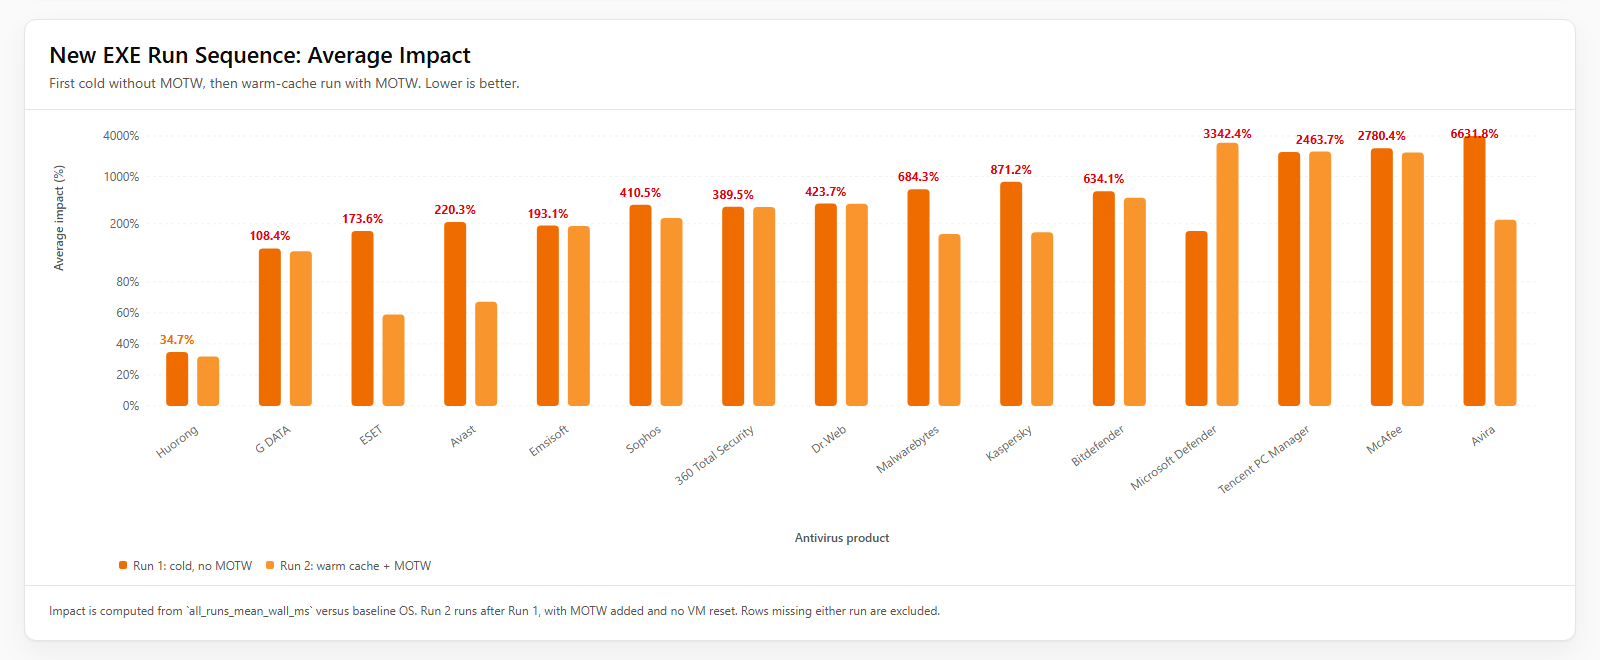
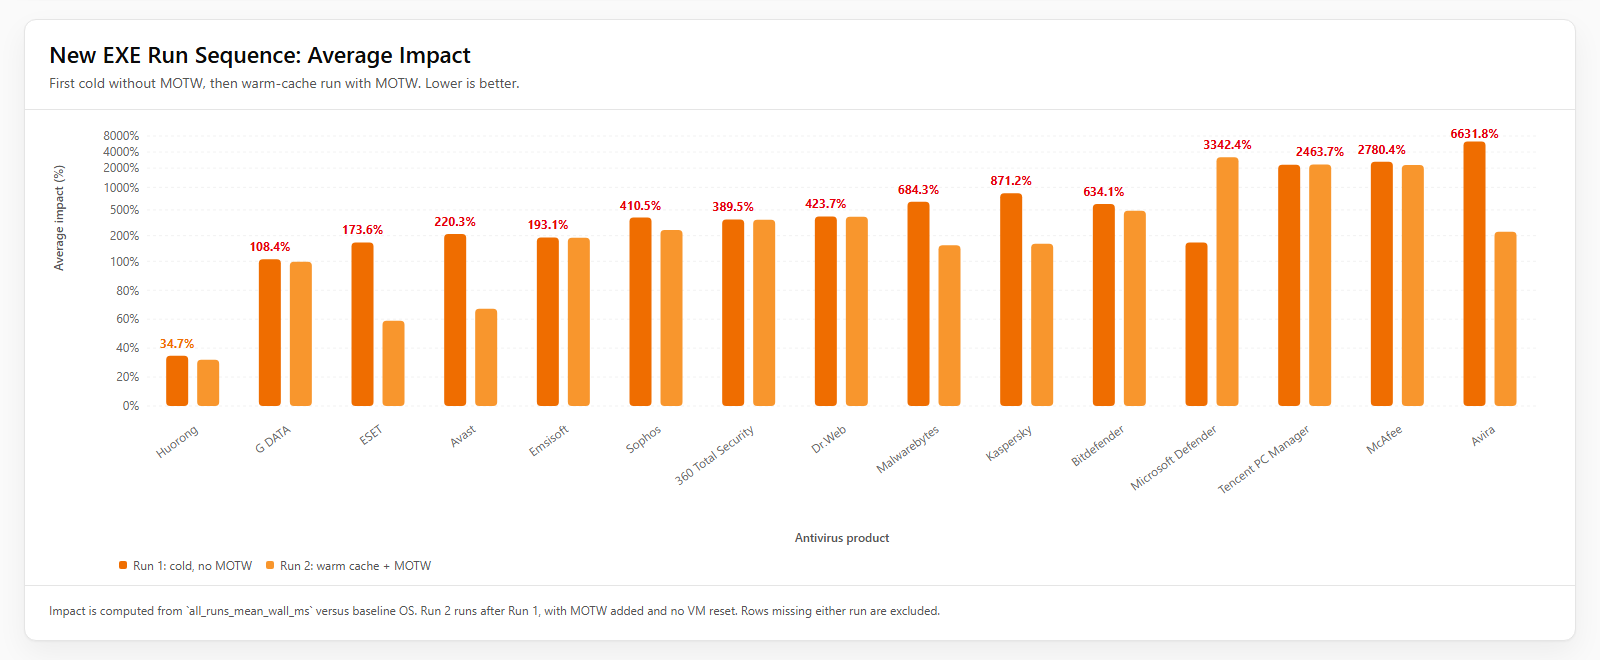
fix: update compilation workload and microbenchmark test item descriptions for clarity; adjust newExeRunAxis configuration for improved visualization

diff --git a/visualizations/src/charts/newExeRunAxis.ts b/visualizations/src/charts/newExeRunAxis.ts
@@ -1,30 +1,31 @@
 import type { ManualAxisBreak } from './MicrobenchScenarioChart'
 
 export const newExeRunAxis: ManualAxisBreak = {
-  max: 160,
-  ticks: [0, 18.4, 36.8, 55.2, 73.6, 92, 108, 124, 136, 148, 160],
+  max: 168,
+  ticks: [0, 18, 36, 54, 72, 90, 106, 122, 136, 148, 158, 168],
   tickLabels: new Map([
     [0, 0],
-    [18.4, 20],
-    [36.8, 40],
-    [55.2, 60],
-    [73.6, 80],
-    [92, 100],
-    [108, 200],
-    [124, 500],
+    [18, 20],
+    [36, 40],
+    [54, 60],
+    [72, 80],
+    [90, 100],
+    [106, 200],
+    [122, 500],
     [136, 1000],
     [148, 2000],
-    [160, 4000],
+    [158, 4000],
+    [168, 8000],
   ]),
   transform: transformNewExeRunValue,
 }
 
 function transformNewExeRunValue(value: number) {
-  return interpolateAxis(value, [0, 20, 40, 60, 80, 100, 200, 500, 1000, 2000, 4000])
+  return interpolateAxis(value, [0, 20, 40, 60, 80, 100, 200, 500, 1000, 2000, 4000, 8000])
 }
 
 function interpolateAxis(value: number, actualStops: number[]) {
-  const plotStops = [0, 18.4, 36.8, 55.2, 73.6, 92, 108, 124, 136, 148, 160]
+  const plotStops = [0, 18, 36, 54, 72, 90, 106, 122, 136, 148, 158, 168]
 
   if (value <= actualStops[0]) {
     return plotStops[0]

diff --git a/visualizations/src/charts/NewExeRunSequenceChart.tsx b/visualizations/src/charts/NewExeRunSequenceChart.tsx
@@ -139,6 +139,7 @@ export function NewExeRunSequenceChart({ data, onReady }: Props) {
                 domain={[0, newExeRunAxis.max]}
                 ticks={newExeRunAxis.ticks}
                 tickFormatter={(value) => formatAxisLabel(Number(value))}
+                interval={0}
                 tickLine={false}
                 axisLine={false}
                 width={74}

diff --git a/blog/2026-04-25-av-perf-test-zh-cn.md b/blog/2026-04-25-av-perf-test-zh-cn.md
@@ -19,9 +19,9 @@ media_subpath: /assets/img/2026-04-25-av-perf-test-zh-cn
 
 我搭建了一套测试环境，设计了两条互补的测试线：
 
-**编译工作负载（4 场景）。** 我选取了 [ripgrep](https://github.com/BurntSushi/ripgrep)（Rust/Cargo 原生构建）与 [Roslyn](https://github.com/dotnet/roslyn)（.NET/MSBuild 托管构建），各执行全量与增量编译。二者的文件系统轨迹截然不同：ripgrep 路径少（约 3,400 条唯一路径）但写入密集，产物以 PDB、导入库、原生链接器输出为主，检验的是杀软对原生可执行产物创建的处理能力；Roslyn 路径极多（约 15.4 万条），元数据查询密集——MSBuild 项目求值、SDK/NuGet/引用程序集遍历、编译器服务器读取，检验的是杀软在海量文件路径遍历时的每次打开/查询开销。两者恰好覆盖"编译"家族中压力形态截然不同的两极。
+**编译工作负载（2个测试项）。** 我选取了 [ripgrep](https://github.com/BurntSushi/ripgrep)（Rust/Cargo 原生构建）与 [Roslyn](https://github.com/dotnet/roslyn)（.NET/MSBuild 托管构建），各执行全量与增量编译。二者的文件系统轨迹截然不同：ripgrep 路径少（约 3,400 条唯一路径）但写入密集，产物以 PDB、导入库、原生链接器输出为主，检验的是杀软对原生可执行产物创建的处理能力；Roslyn 路径极多（约 15.4 万条），元数据查询密集——MSBuild 项目求值、SDK/NuGet/引用程序集遍历、编译器服务器读取，检验的是杀软在海量文件路径遍历时的每次打开/查询开销。两者恰好覆盖"编译"家族中压力形态截然不同的两极。
 
-**微基准（20 场景）。** 将杀软可能介入的系统调用逐一拆分测量，涵盖文件系统（创建删除、压缩包解压、目录枚举、硬链接与 junction）、可执行内容处理（按 `.exe`/`.dll`/`.js`/`.ps1` 扩展名写入相同内容以测试扩展名敏感性、写入 PE 格式内容、加载 DLL、运行全新可执行文件及其附加 MOTW 标记后的差异）、进程与线程（进程创建、线程创建）、内存（保护属性 RW→RX 翻转、文件映射）、网络（环回连接、DNS 解析）、注册表读写、命名管道、签名验证、以及COM 实例化。每场景执行 50–50,000 次操作，主要采集总耗时（wall time）与相对基线的性能退化百分比，同时记录 CPU 时间和变异系数用于稳定性评估。读者可按自身工作流挑选关注点：例如，CI/CD 可重点关注进程创建与文件写入，前端看目录枚举与 `.js` 扩展名敏感性。
+**微基准（20个测试项）。** 将杀软可能介入的系统调用逐一拆分测量，涵盖文件系统（创建删除、压缩包解压、目录枚举、硬链接与 junction）、可执行内容处理（按 `.exe`/`.dll`/`.js`/`.ps1` 扩展名写入相同内容以测试扩展名敏感性、写入 PE 格式内容、加载 DLL、运行全新可执行文件及其附加 MOTW 标记后的差异）、进程与线程（进程创建、线程创建）、内存（保护属性 RW→RX 翻转、文件映射）、网络（环回连接、DNS 解析）、注册表读写、命名管道、签名验证、以及COM 实例化。每场景执行 50–50,000 次操作，主要采集总耗时（wall time）与相对基线的性能退化百分比，同时记录 CPU 时间和变异系数用于稳定性评估。读者可按自身工作流挑选关注点：例如，CI/CD 可重点关注进程创建与文件写入，前端看目录枚举与 `.js` 扩展名敏感性。
 
 测试环境基于 VM 快照。虚拟机配置为 24 vCPU、15 GB RAM，运行 Windows 10 22H2（NT 10.0.22621.0）。工具链在快照内预装完毕：Rust 1.85.0、.NET SDK 8.0.303、Visual Studio Build Tools 2022（18.5）及 Windows SDK 10.0.26100.0。基线环境（无杀软）与 16 款待测产品各执行五轮，每轮开始前由外部编排脚本还原至同一干净快照，确保每次运行的起始状态完全一致。执行顺序上，微基准优先于编译场景以确保延迟敏感的测量在系统最稳定时进行；微基准场景之间冷却 10 秒，编译场景之间冷却 20 秒，留出时间让杀软的后台活动（扫描缓存写入、云信誉回调等）平息。每次测试开始前，系统会连续 3 秒采样 CPU 占用率，若平均值超过 20% 则中止运行，以排除后台扫描干扰。编译工作负载在 Windows Job Object 内执行，可精确采集整个进程树的用户态/内核态 CPU 时间与峰值内存；微基准则在进程内运行，使用 `QueryPerformanceCounter` 级别的 `Stopwatch` 计时并记录逐操作延迟直方图（p50/p95/p99/max）。所有场景还通过 `PerformanceCounter` 快照采集全系统磁盘读写量，以捕获杀软服务进程在 Job Object 之外产生的 I/O 开销。每次运行均记录完整 manifest（包括仓库 SHA、工具版本、文件路径哈希等），确保结果可复现与审计。
 
